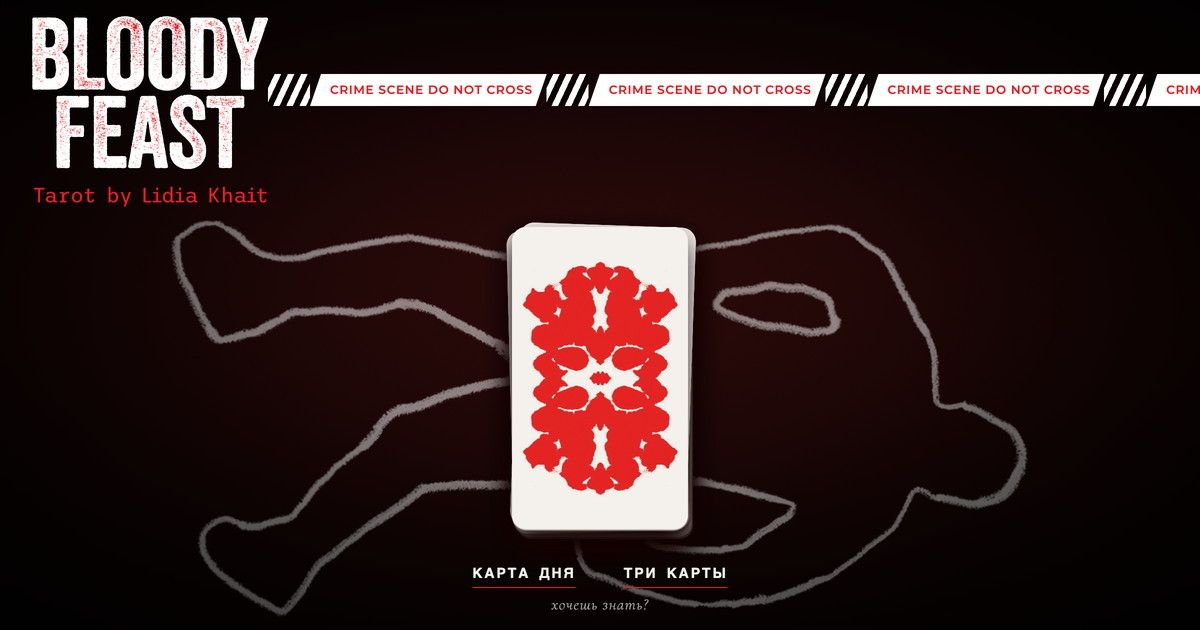
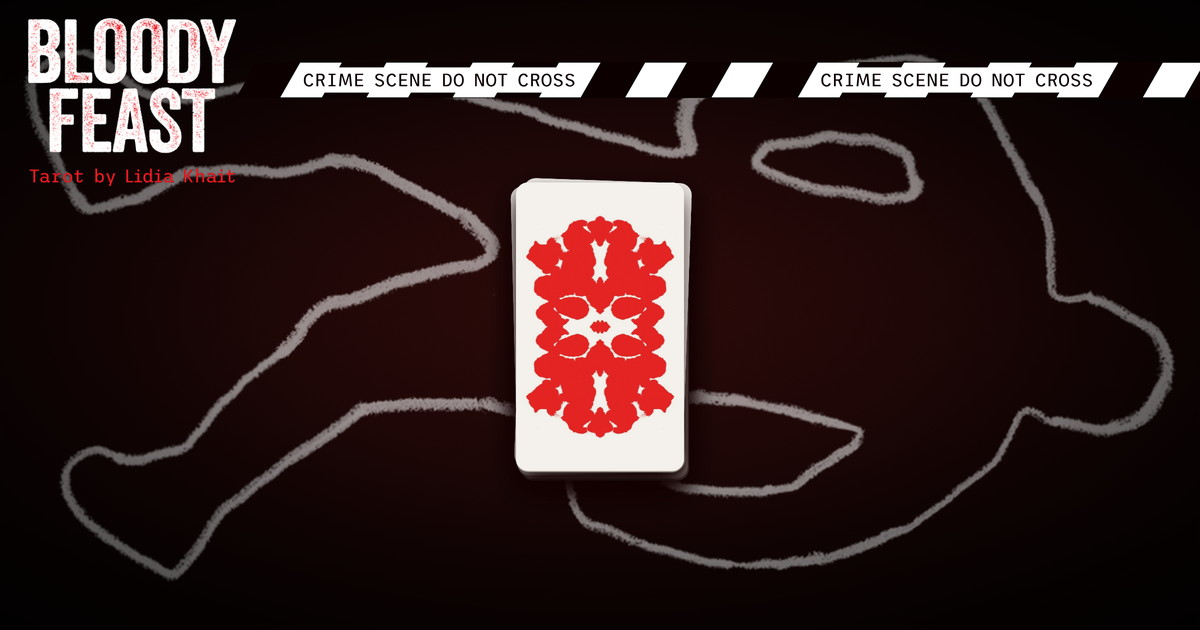
Cursor: fill the link preview with the body outline and crop in the app's own tape.

Changed region(s): [[0.0, 0.0302, 1.0, 0.9651], [0.185, 0.8746, 0.2775, 0.9952], [0.1233, 0.3619, 0.1542, 0.4524]]

diff --git a/index.html b/index.html
@@ -13,7 +13,7 @@
 <meta property="og:url" content="https://lidkin.github.io/bloody-tarot/">
 <meta property="og:title" content="Bloody Feast Tarot — хочешь знать?">
 <meta property="og:description" content="Карта дня и расклад на три карты из колоды Лидии Хаит. Card of the day and a three-card spread.">
-<meta property="og:image" content="https://lidkin.github.io/bloody-tarot/og-image.jpg?v=2">
+<meta property="og:image" content="https://lidkin.github.io/bloody-tarot/og-image.jpg?v=3">
 <meta property="og:image:width" content="1200">
 <meta property="og:image:height" content="630">
 <meta name="twitter:card" content="summary_large_image">
